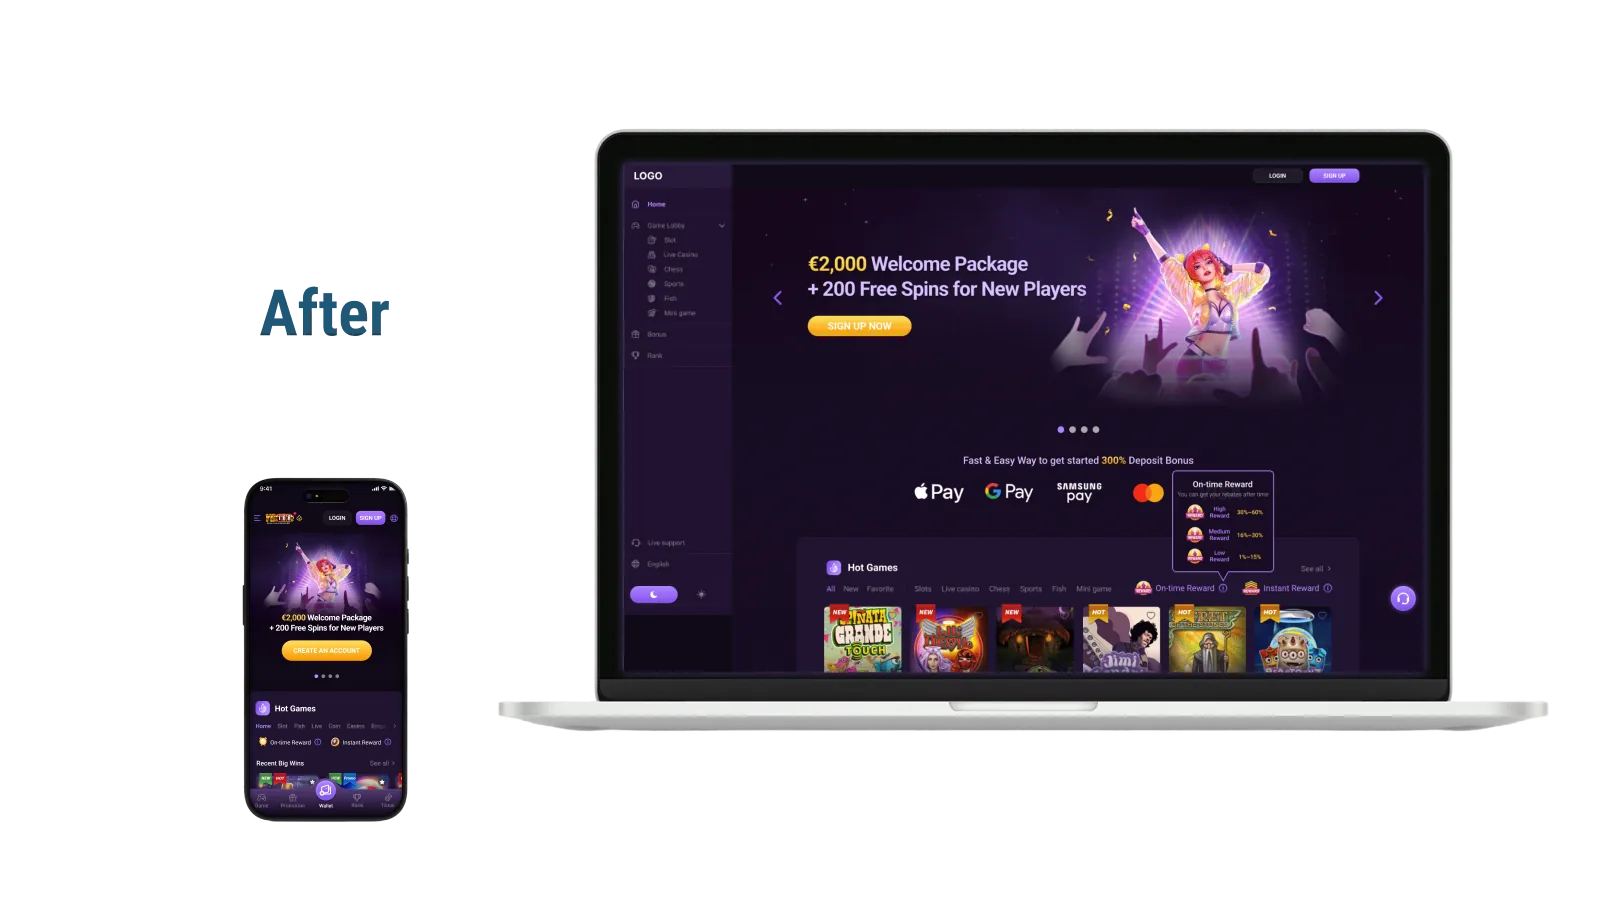
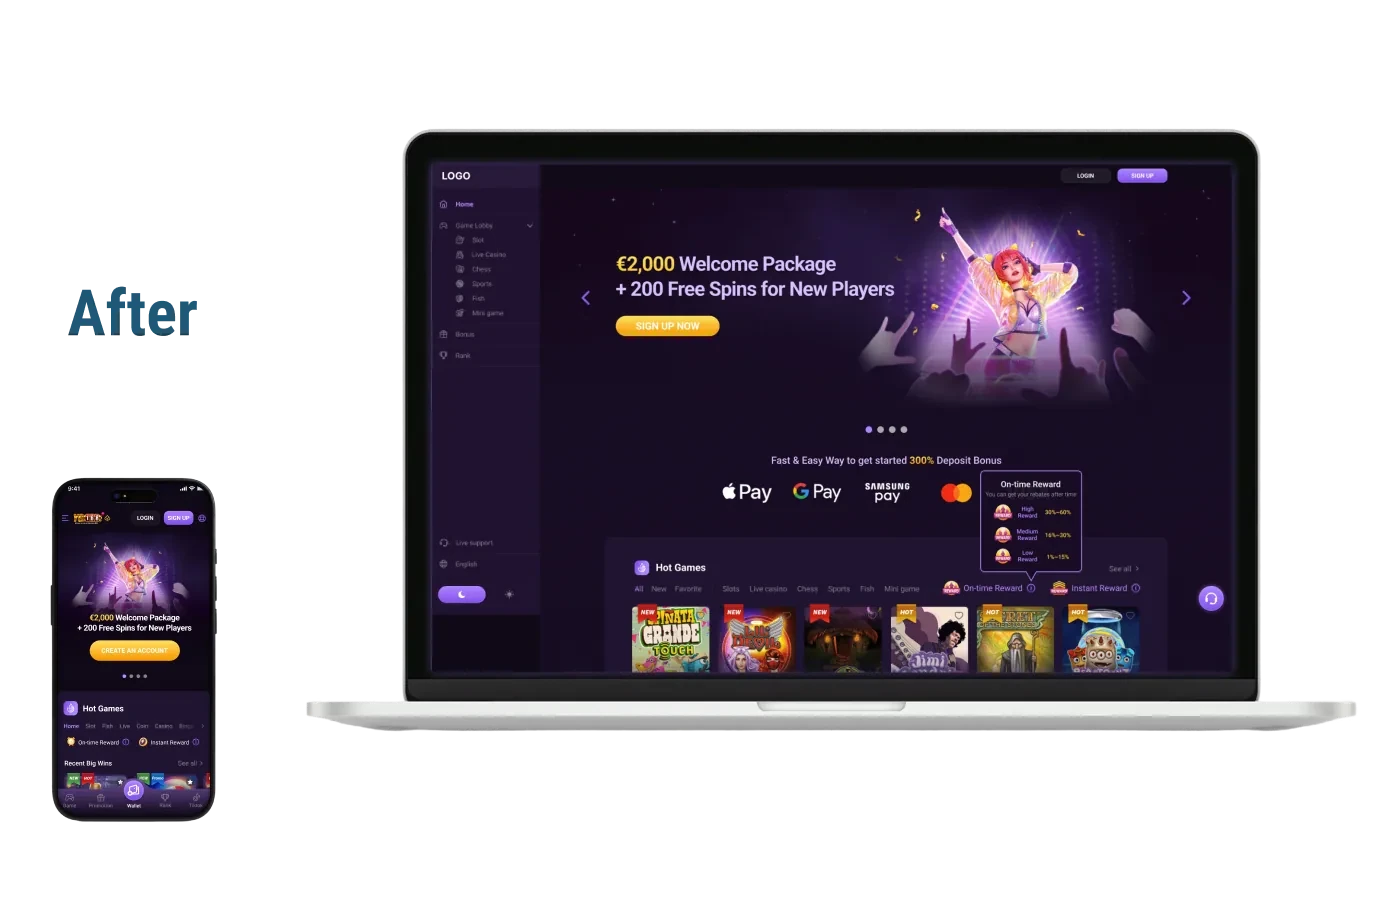
專案內頁：大標 60px、before/after 同比例、新流程圖、成長數字 40px、app 小標調整
Claude-Session: https://claude.ai/code/session_0153FkUDYTiYSM5VjChihrvY

Changed region(s): [[0.0307, 0.1216, 0.9214, 0.9121], [0.0307, 0.304, 0.2457, 0.3648]]

diff --git a/src/components/project/blocks.jsx b/src/components/project/blocks.jsx
@@ -1,3 +1,4 @@
+import { asset } from '../../lib/asset.js'
 import { BlockTitle, Figure, IconTitle, Panel, SectionHeading, TextItem } from './parts.jsx'
 
 export function AboutProject({ about }) {
@@ -36,7 +37,7 @@ export function AboutProject({ about }) {
   )
 }
 
-function PanelBlock({ heading, icon, title, columns = [], full = [], large }) {
+function PanelBlock({ heading, icon, title, columns = [], full = [], large, largeTitle }) {
   return (
     <section className="flex flex-col gap-6">
       {heading && <SectionHeading>{heading}</SectionHeading>}
@@ -45,13 +46,13 @@ function PanelBlock({ heading, icon, title, columns = [], full = [], large }) {
         {columns.length > 0 && (
           <div className="grid gap-6 md:pl-10 xl:grid-cols-2 xl:gap-10">
             {columns.map((c) => (
-              <TextItem key={c.title} {...c} large={large} />
+              <TextItem key={c.title} {...c} large={large} largeTitle={largeTitle} />
             ))}
           </div>
         )}
         {full.map((c) => (
           <div key={c.title} className="md:pl-10">
-            <TextItem {...c} large={large} />
+            <TextItem {...c} large={large} largeTitle={largeTitle} />
           </div>
         ))}
       </Panel>
@@ -93,7 +94,7 @@ function StepsBlock({ title, items, figure }) {
       <div className="grid gap-6 xl:grid-cols-2 xl:gap-x-12">
         {items.map((it) => (
           <div key={it.title} className={it.wide ? 'xl:col-span-2' : ''}>
-            <TextItem {...it} titleClass="text-ink" />
+            <TextItem {...it} titleClass="text-xl text-heading md:text-2xl" />
           </div>
         ))}
       </div>
@@ -137,36 +138,19 @@ function GalleryBlock({ images }) {
   )
 }
 
-function FlowNode({ children }) {
-  return (
-    <span className="flex min-h-[72px] items-center justify-center rounded-2xl bg-white/65 px-6 py-3 text-center font-display text-lg font-bold text-ink shadow-[inset_2px_2px_4px_0_rgb(255_255_255/0.25)] md:min-h-[104px] md:text-2xl dark:bg-white/10">
-      {children}
-    </span>
-  )
-}
-
-function FlowArrow() {
-  return <span aria-hidden className="mx-auto h-10 w-px bg-ink/40 md:h-[80px]" />
-}
-
+// Before/after flow charts, exported from Figma with transparent backgrounds and dark text.
 function FlowBlock({ flows }) {
   return (
     <section className="grid gap-12 md:grid-cols-2">
-      {flows.map((flow) => (
-        <div key={flow.title} className="flex flex-col">
-          <h3 className="mb-8 text-center font-display text-2xl font-bold text-ink md:text-[32px]">{flow.title}</h3>
-          <div className="grid grid-cols-2 gap-2">
-            {flow.start.map((s) => (
-              <FlowNode key={s}>{s}</FlowNode>
-            ))}
-          </div>
-          {flow.steps.map((step) => (
-            <div key={step} className="flex flex-col">
-              <FlowArrow />
-              <FlowNode>{step}</FlowNode>
-            </div>
-          ))}
-        </div>
+      {flows.map((f) => (
+        <img
+          key={f.src}
+          src={asset(f.src)}
+          alt={f.alt}
+          className="w-full dark:rounded-3xl dark:bg-[#e7eff6] dark:p-6"
+          loading="lazy"
+          decoding="async"
+        />
       ))}
     </section>
   )
@@ -180,7 +164,7 @@ function StatsBlock({ icon, title, items }) {
         {items.map((s) => (
           <div key={s.label} className="flex flex-col-reverse gap-1 font-body">
             <dt className="text-base tracking-[2px] text-muted md:text-base">{s.label}</dt>
-            <dd className="font-display text-4xl font-extrabold text-accent md:text-5xl">{s.value}</dd>
+            <dd className="font-display text-[32px] font-extrabold text-accent md:text-[40px]">{s.value}</dd>
           </div>
         ))}
       </dl>

diff --git a/src/data/projectDetails.js b/src/data/projectDetails.js
@@ -134,7 +134,7 @@ export const PROJECT_DETAILS = {
       {
         type: 'panel',
         heading: '改版及優化內部反饋',
-        large: true,
+        largeTitle: true,
         full: [
           {
             title: '視覺改改版優化及體驗',
@@ -248,8 +248,8 @@ export const PROJECT_DETAILS = {
       {
         type: 'flow',
         flows: [
-          { title: '原先流程', start: ['其他頁面', '首頁'], steps: ['個人中心', '交易流程'] },
-          { title: '新流程', start: ['其他頁面', '首頁'], steps: ['交易流程'] },
+          { src: 'p-web/flow-old.webp', alt: '原先流程：其他頁面 → 首頁 → 個人中心 → 交易流程' },
+          { src: 'p-web/flow-new.webp', alt: '新流程：其他頁面或首頁 → 直接進入交易流程' },
         ],
       },
       { type: 'figure', src: 'p-web/banner.webp', alt: '每個頁面右下角都會有懸浮交易按鈕' },

diff --git a/src/components/project/parts.jsx b/src/components/project/parts.jsx
@@ -33,12 +33,12 @@ export function IconTitle({ icon, children }) {
 }
 
 // A bold-titled paragraph; `body` may be a string or several paragraphs.
-export function TextItem({ title, body, large = false, titleClass = 'text-heading' }) {
+export function TextItem({ title, body, large = false, largeTitle = false, titleClass = 'text-heading' }) {
   const paragraphs = Array.isArray(body) ? body : [body]
   const size = large ? 'text-lg md:text-2xl' : 'text-base md:text-base'
   return (
     <div className={`font-body leading-loose tracking-[2px] text-muted ${size}`}>
-      <p className={`font-bold ${titleClass}`}>{title}</p>
+      <p className={`font-bold ${largeTitle ? 'text-lg md:text-2xl' : ''} ${titleClass}`}>{title}</p>
       {paragraphs.map((p) => (
         <p key={p}>{p}</p>
       ))}

diff --git a/src/pages/Project.jsx b/src/pages/Project.jsx
@@ -10,7 +10,7 @@ import { asset } from '../lib/asset.js'
 function ProjectHeader({ project }) {
   return (
     <header className="flex flex-col gap-4 pt-10 md:pt-16 xl:gap-2 xl:pt-[106px]">
-      <h1 className="font-display text-[32px] leading-[1.5] font-extrabold text-ink md:text-5xl xl:text-[80px]">
+      <h1 className="font-display text-[32px] leading-[1.5] font-extrabold text-ink md:text-[44px] xl:text-[60px]">
         <span className="text-ink/40">{project.titleMuted}</span>
         {project.title}
       </h1>
